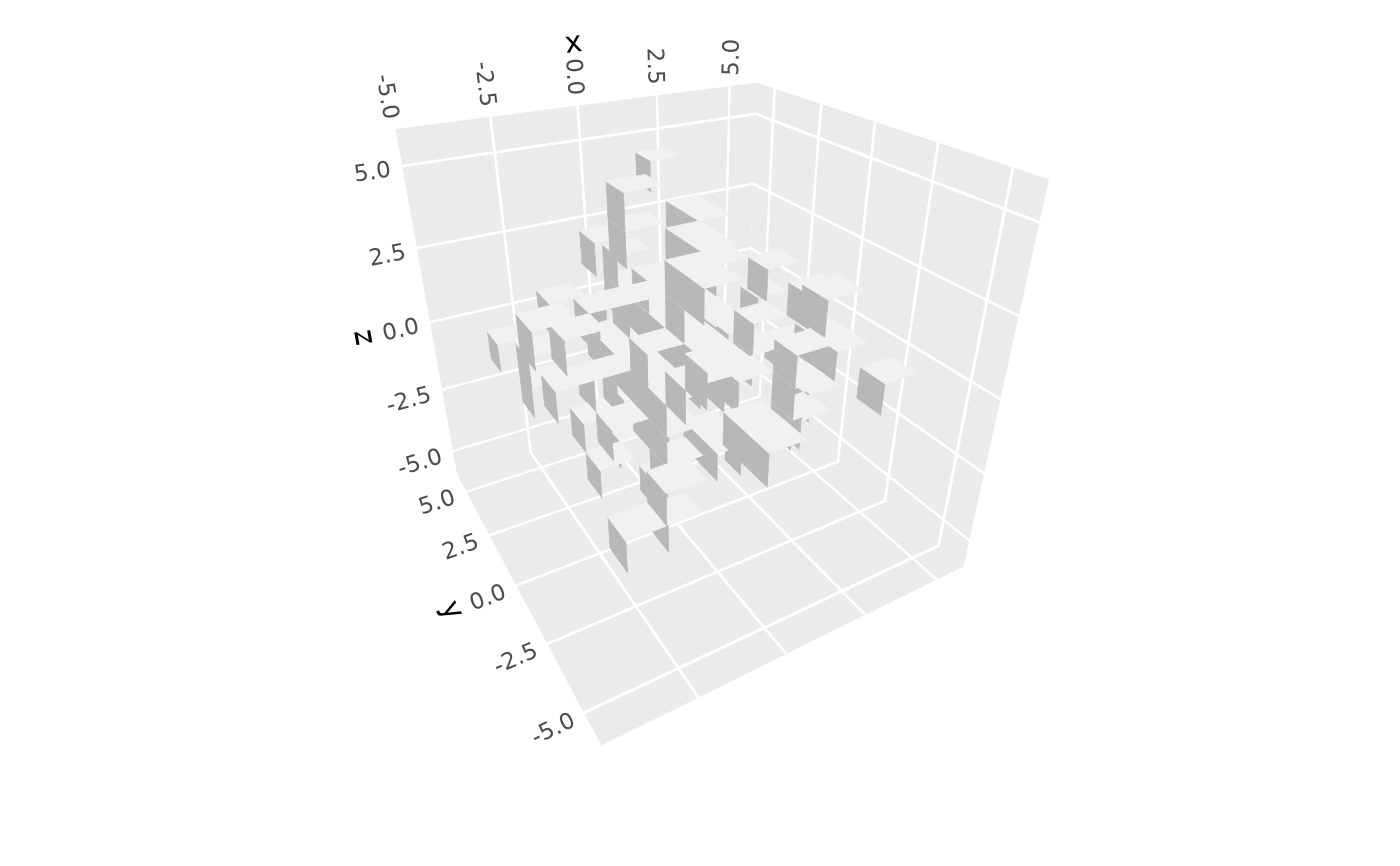
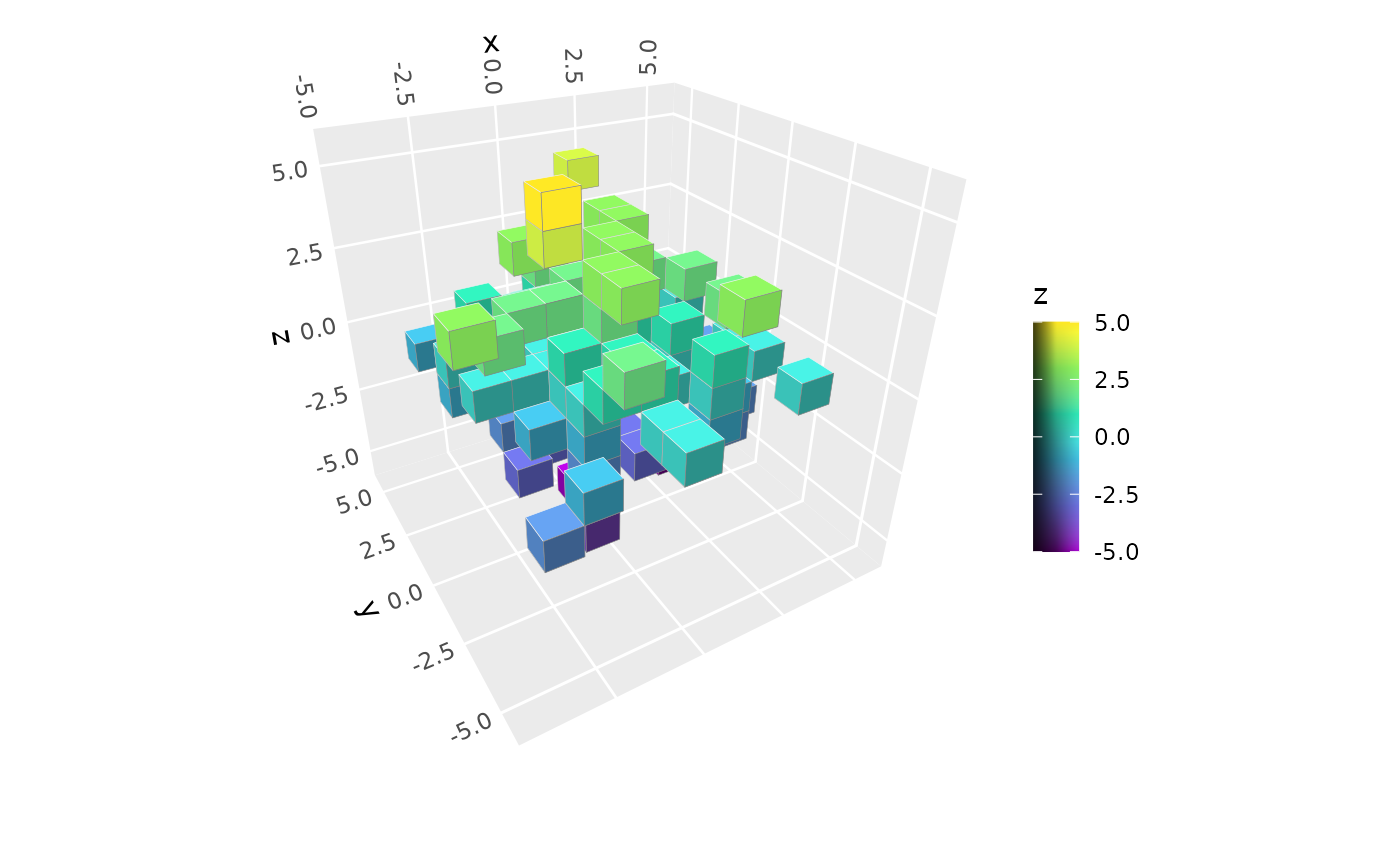
Deploying to gh-pages from @ matthewkling/ggcube@da015a98d76ac12a7d9200cf2ae23a3b20e15e07 🚀

diff --git a/reference/geom_voxel_3d.html b/reference/geom_voxel_3d.html
@@ -200,12 +200,14 @@ GeomPolygon3D for the default geometry.</p></div>
 <span class="r-in"><span></span></span>
 <span class="r-in"><span><span class="co"># With aesthetic fill</span></span></span>
 <span class="r-in"><span><span class="va">p</span> <span class="op">+</span> <span class="fu">stat_voxel_3d</span><span class="op">(</span><span class="fu"><a href="aes.html">aes</a></span><span class="op">(</span>fill <span class="op">=</span> <span class="va">z</span><span class="op">)</span><span class="op">)</span> <span class="op">+</span></span></span>
-<span class="r-in"><span>  <span class="fu">geom_fill_viridis_c</span><span class="op">(</span><span class="op">)</span> <span class="op">+</span> <span class="fu"><a href="https://ggplot2.tidyverse.org/reference/guides.html" class="external-link">guides</a></span><span class="op">(</span>fill <span class="op">=</span> <span class="fu"><a href="guide_3d.html">guide_colorbar_3d</a></span><span class="op">(</span><span class="op">)</span><span class="op">)</span></span></span>
-<span class="r-err co"><span class="r-pr">#&gt;</span> <span class="error">Error in geom_fill_viridis_c():</span> could not find function "geom_fill_viridis_c"</span>
-<span class="r-in"><span></span></span>
-<span class="r-in"><span><span class="co"># Show only visible faces for performance</span></span></span>
-<span class="r-in"><span><span class="va">p</span> <span class="op">+</span> <span class="fu">geom_voxel_3d</span><span class="op">(</span>faces <span class="op">=</span> <span class="fu"><a href="https://rdrr.io/r/base/c.html" class="external-link">c</a></span><span class="op">(</span><span class="st">"zmax"</span>, <span class="st">"ymin"</span>, <span class="st">"xmin"</span><span class="op">)</span><span class="op">)</span></span></span>
+<span class="r-in"><span>  <span class="fu"><a href="https://ggplot2.tidyverse.org/reference/scale_viridis.html" class="external-link">scale_fill_viridis_c</a></span><span class="op">(</span><span class="op">)</span> <span class="op">+</span></span></span>
+<span class="r-in"><span>  <span class="fu"><a href="https://ggplot2.tidyverse.org/reference/guides.html" class="external-link">guides</a></span><span class="op">(</span>fill <span class="op">=</span> <span class="fu"><a href="guide_3d.html">guide_colorbar_3d</a></span><span class="op">(</span><span class="op">)</span><span class="op">)</span></span></span>
 <span class="r-plt img"><img src="geom_voxel_3d-2.png" alt="" width="700" height="433"></span>
+<span class="r-in"><span></span></span>
+<span class="r-in"><span><span class="co"># Show only some voxel faces</span></span></span>
+<span class="r-in"><span><span class="va">p</span> <span class="op">+</span> <span class="fu">geom_voxel_3d</span><span class="op">(</span>fill <span class="op">=</span> <span class="st">"steelblue"</span>,</span></span>
+<span class="r-in"><span>                  faces <span class="op">=</span> <span class="fu"><a href="https://rdrr.io/r/base/c.html" class="external-link">c</a></span><span class="op">(</span><span class="st">"zmax"</span>, <span class="st">"ymin"</span>, <span class="st">"xmin"</span><span class="op">)</span><span class="op">)</span></span></span>
+<span class="r-plt img"><img src="geom_voxel_3d-3.png" alt="" width="700" height="433"></span>
 <span class="r-in"><span></span></span>
 </code></pre></div>
     </div>

diff --git a/reference/geom_voxel_3d.md b/reference/geom_voxel_3d.md
@@ -185,10 +185,12 @@ p + geom_voxel_3d(fill = "steelblue")
 
 # With aesthetic fill
 p + stat_voxel_3d(aes(fill = z)) +
-  geom_fill_viridis_c() + guides(fill = guide_colorbar_3d())
-#> Error in geom_fill_viridis_c(): could not find function "geom_fill_viridis_c"
+  scale_fill_viridis_c() +
+  guides(fill = guide_colorbar_3d())
 
-# Show only visible faces for performance
-p + geom_voxel_3d(faces = c("zmax", "ymin", "xmin"))
+
+# Show only some voxel faces
+p + geom_voxel_3d(fill = "steelblue",
+                  faces = c("zmax", "ymin", "xmin"))
 
 ```